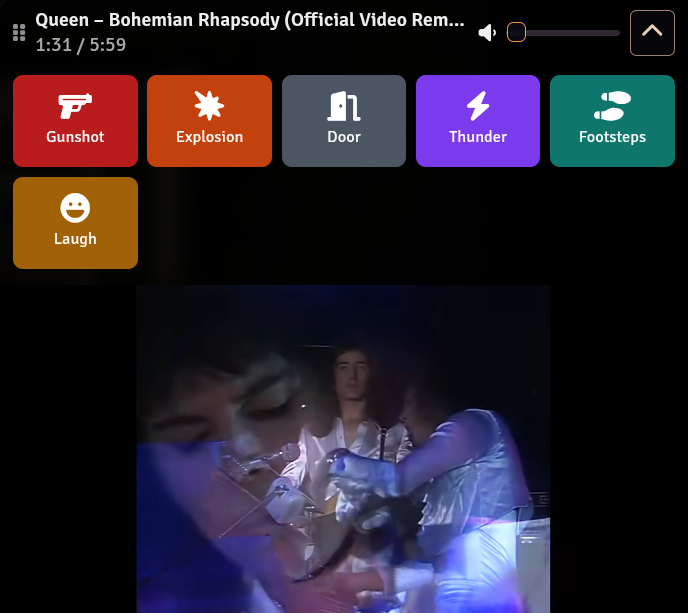
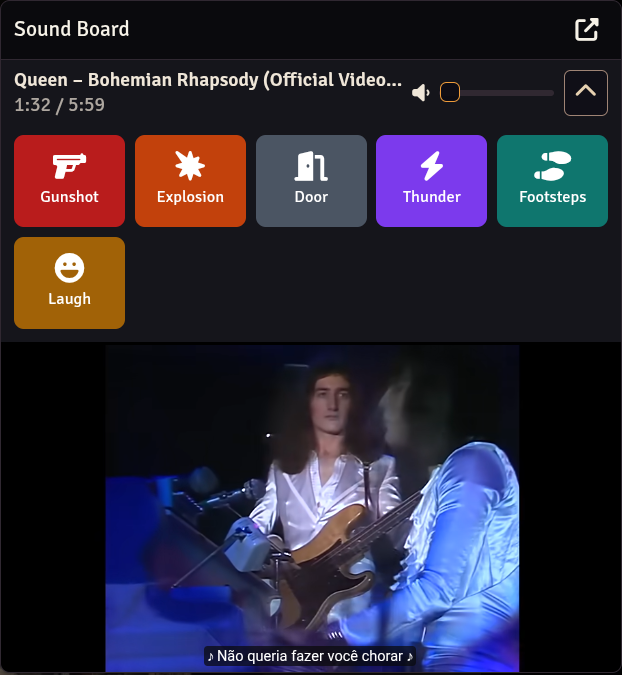
Player is now a Foundry window so PopOut! can pop it out; players are rebuilt in the pop-out window; 0.3.0

diff --git a/scripts/widget.js b/scripts/widget.js
@@ -1,71 +1,87 @@
-// Small always-on widget for everyone: main channel title + mm:ss, general volume, collapsible board buttons.
-import { MOD, getState, pos, duration } from './engine.js';
+// Always-visible player window for everyone: the YouTube player(s), main channel title + mm:ss, general volume, board buttons.
+// A normal Foundry window so PopOut! can move it to its own browser window; it has no close/minimize (YouTube requires the player to stay visible).
+import { MOD, getState, pos, duration, rebind } from './engine.js';
 import { press, canPlay, allButtons } from './effects.js';
+import { setBox, boxWin } from './yt.js';
 
 export const t = (k) => game.i18n.localize(`FSB.${k}`);
 export const esc = (s = '') => String(s).replace(/[&<>"']/g, (c) => ({ '&': '&amp;', '<': '&lt;', '>': '&gt;', '"': '&quot;', "'": '&#39;' }[c]));
 export const fmt = (s) => `${Math.floor(s / 60)}:${String(Math.floor(s % 60)).padStart(2, '0')}`;
 export const btnFace = (b) => (b.image ? `<img src="${esc(b.image)}" alt="">` : `<i class="${esc(b.icon || 'fa-solid fa-music')}"></i>`);
 
-let el; let openManager;
 const mainChannel = () => { const st = getState(); return st.channels.find((c) => c.id === st.main && c.queue.length) ?? st.channels.find((c) => c.queue.length && c.playing) ?? st.channels.find((c) => c.queue.length); };
+const cfg = () => game.settings.get(MOD, 'widget');
 
-export function render() {
-  const ch = mainChannel();
-  const cfg = game.settings.get(MOD, 'widget');
-  const btns = allButtons().filter((b) => canPlay(b));
-  const blocked = !navigator.userActivation?.hasBeenActive && getState().channels.some((c) => c.playing);
-  el.classList.toggle('open', cfg.open);
-  el.querySelector('.ui').innerHTML = `
-    <div class="bar">
-      <i class="fa-solid fa-grip-vertical grip" title="${t('Drag')}"></i>
-      <div class="info"><div class="title">${esc(ch?.queue[ch.index]?.title ?? t('Idle'))}</div><div class="time"></div></div>
-      ${blocked ? `<button data-a="unlock"><i class="fa-solid fa-volume-high"></i> ${t('EnableAudio')}</button>` : ''}
-      <i class="fa-solid fa-volume-low"></i>
-      <input type="range" min="0" max="100" value="${game.settings.get(MOD, 'general')}" data-a="general" title="${t('General')}">
-      ${game.user.isGM ? `<button data-a="manager" title="${t('Manager')}"><i class="fa-solid fa-sliders"></i></button>` : ''}
-      ${btns.length ? `<button data-a="toggle"><i class="fa-solid fa-chevron-${cfg.open ? 'up' : 'down'}"></i></button>` : ''}
-    </div>
-    ${cfg.open && btns.length ? `<div class="panel">${btns.map((b) => `<button class="sb" data-a="fx" data-id="${b.id}" title="${esc(b.label)}" style="--c:${esc(b.color || '#444')}">${btnFace(b)}<span>${esc(b.label)}</span></button>`).join('')}</div>` : ''}`;
-  tick();
+let app; let openManager;
+const { ApplicationV2 } = foundry.applications.api;
+
+class Player extends ApplicationV2 {
+  static DEFAULT_OPTIONS = { id: 'fsb-widget', classes: ['fsb', 'fsb-widget'], window: { title: 'FSB.Title', minimizable: false, resizable: false }, position: { width: 380 } };
+
+  async _renderHTML() {
+    const ch = mainChannel(); const c = cfg();
+    const btns = allButtons().filter((b) => canPlay(b));
+    const w = this.element?.ownerDocument.defaultView ?? window; // the pop-out window has its own autoplay permission
+    const blocked = !w.navigator.userActivation?.hasBeenActive && getState().channels.some((x) => x.playing);
+    return `
+      <div class="bar">
+        <div class="info"><div class="title">${esc(ch?.queue[ch.index]?.title ?? t('Idle'))}</div><div class="time"></div></div>
+        ${blocked ? `<button data-a="unlock"><i class="fa-solid fa-volume-high"></i> ${t('EnableAudio')}</button>` : ''}
+        <i class="fa-solid fa-volume-low"></i>
+        <input type="range" min="0" max="100" value="${game.settings.get(MOD, 'general')}" data-a="general" title="${t('General')}">
+        ${game.user.isGM ? `<button data-a="manager" title="${t('Manager')}"><i class="fa-solid fa-sliders"></i></button>` : ''}
+        ${btns.length ? `<button data-a="toggle"><i class="fa-solid fa-chevron-${c.open ? 'up' : 'down'}"></i></button>` : ''}
+      </div>
+      ${c.open && btns.length ? `<div class="panel">${btns.map((b) => `<button class="sb" data-a="fx" data-id="${b.id}" title="${esc(b.label)}" style="--c:${esc(b.color || '#444')}">${btnFace(b)}<span>${esc(b.label)}</span></button>`).join('')}</div>` : ''}`;
+  }
+
+  // only the .ui part is redrawn: #fsb-yt (the iframes) must survive every render
+  _replaceHTML(html, content) {
+    if (!content.querySelector('.ui')) content.innerHTML = '<div class="ui"></div><div id="fsb-yt"></div>';
+    content.querySelector('.ui').innerHTML = html;
+    setBox(content.querySelector('#fsb-yt'));
+    tick();
+  }
+
+  _onFirstRender() {
+    const el = this.element;
+    el.addEventListener('click', (e) => {
+      const b = e.target.closest('[data-a]'); if (!b) return;
+      const a = b.dataset.a;
+      if (a === 'unlock') import('./engine.js').then((m) => m.reconcile()).then(render);
+      else if (a === 'manager') openManager();
+      else if (a === 'toggle') game.settings.set(MOD, 'widget', { ...cfg(), open: !cfg().open }).then(render);
+      else if (a === 'fx') press(allButtons().find((x) => x.id === b.dataset.id));
+    });
+    el.addEventListener('input', (e) => { if (e.target.dataset.a === 'general') game.settings.set(MOD, 'general', Number(e.target.value)); });
+  }
+
+  _onPosition() { // remember where the player dragged it
+    clearTimeout(this._save);
+    this._save = setTimeout(() => game.settings.set(MOD, 'widget', { ...cfg(), x: this.position.left, y: this.position.top }), 800);
+  }
+
+  async close(options = {}) { return options.force ? super.close(options) : this; } // never hideable
 }
 
+export const render = () => app?.render();
+
 function tick() {
-  const ch = mainChannel(); const e = el?.querySelector('.time');
+  const ch = mainChannel(); const e = app?.element?.querySelector('.time');
   if (!e) return;
   const d = ch ? duration(ch.id) : 0;
   e.textContent = ch ? `${fmt(Math.min(pos(ch), d || Infinity))}${d ? ` / ${fmt(d)}` : ''}${ch.playing ? '' : ' ⏸'}` : '';
 }
 
-export function initWidget(open) {
+export async function initWidget(open) {
   openManager = open;
-  el = document.body.appendChild(Object.assign(document.createElement('div'), { id: 'fsb-widget', className: 'fsb' }));
-  el.innerHTML = '<div class="ui"></div><div id="fsb-yt"></div>'; // #fsb-yt holds the visible YouTube players
-  const cfg = game.settings.get(MOD, 'widget');
-  const place = (x, y) => { el.style.left = `${Math.max(0, Math.min(x, innerWidth - 120))}px`; el.style.top = `${Math.max(0, Math.min(y, innerHeight - 40))}px`; };
-  place(cfg.x ?? innerWidth - 560, cfg.y ?? 8);
-
-  el.addEventListener('click', (e) => {
-    const b = e.target.closest('[data-a]'); if (!b) return;
-    const a = b.dataset.a;
-    if (a === 'unlock') { import('./engine.js').then((m) => m.reconcile()); render(); }
-    else if (a === 'manager') openManager();
-    else if (a === 'toggle') game.settings.set(MOD, 'widget', { ...game.settings.get(MOD, 'widget'), open: !game.settings.get(MOD, 'widget').open }).then(render);
-    else if (a === 'fx') press(allButtons().find((x) => x.id === b.dataset.id));
-  });
-  el.addEventListener('input', (e) => { if (e.target.dataset.a === 'general') game.settings.set(MOD, 'general', Number(e.target.value)); });
-  el.addEventListener('pointerdown', (e) => {
-    if (!e.target.closest('.grip')) return;
-    const dx = e.clientX - el.offsetLeft; const dy = e.clientY - el.offsetTop;
-    const move = (m) => place(m.clientX - dx, m.clientY - dy);
-    const up = () => {
-      removeEventListener('pointermove', move); removeEventListener('pointerup', up);
-      game.settings.set(MOD, 'widget', { ...game.settings.get(MOD, 'widget'), x: el.offsetLeft, y: el.offsetTop });
-    };
-    addEventListener('pointermove', move); addEventListener('pointerup', up);
-  });
+  const c = cfg();
+  app = new Player({ position: { left: c.x ?? Math.max(0, innerWidth - 560), top: c.y ?? 8 } });
+  await app.render({ force: true });
   // first user gesture: drop the "enable audio" button
   document.addEventListener('pointerdown', () => setTimeout(render, 0), { once: true, capture: true });
   setInterval(tick, 1000);
-  render();
+  // PopOut! moved the window (or put it back): rebuild the players in the window that now holds it
+  const again = foundry.utils.debounce(async () => { await rebind(); render(); }, 500);
+  for (const h of ['PopOut:loaded', 'PopOut:popin', 'PopOut:close']) Hooks.on(h, (a) => { if (a?.id === 'fsb-widget') again(); });
 }

diff --git a/scripts/yt.js b/scripts/yt.js
@@ -1,17 +1,25 @@
-// YouTube IFrame API helpers (official embed, hidden offscreen players).
-let api;
-export const ytReady = () => (api ??= new Promise((res) => {
-  if (window.YT?.Player) return res();
-  const prev = window.onYouTubeIframeAPIReady;
-  window.onYouTubeIframeAPIReady = () => { prev?.(); res(); };
-  const s = document.createElement('script');
-  s.src = 'https://www.youtube.com/iframe_api';
-  document.head.append(s);
-}));
+// YouTube IFrame API helpers (official embed; the player is always visible inside the widget window).
+const apis = new WeakMap(); // window -> promise: a pop-out window needs its own copy of the API, loaded in that window
+export const ytReady = (win = window) => {
+  if (win.YT?.Player) return Promise.resolve();
+  if (!apis.has(win)) apis.set(win, new Promise((res) => {
+    const prev = win.onYouTubeIframeAPIReady;
+    win.onYouTubeIframeAPIReady = () => { prev?.(); res(); };
+    const s = win.document.createElement('script');
+    s.src = 'https://www.youtube.com/iframe_api';
+    win.document.head.append(s);
+  }));
+  return apis.get(win);
+};
 
-// Visible players only (YouTube terms forbid hiding the player): they live inside the widget, full widget width (auto) x 200 (the minimum height YouTube allows).
-export const box = () => document.getElementById('fsb-yt');
+// Visible players only (YouTube terms forbid hiding the player): they live inside the widget window, full width (auto) x 200 (the minimum height YouTube allows).
+let boxEl;
+export const setBox = (e) => { boxEl = e; };
+export const box = () => boxEl;
+export const boxWin = () => boxEl?.ownerDocument.defaultView ?? window; // main window, or the PopOut! window
 export const SIZE = { width: '100%', height: 200 };
+// explicit origin: a pop-out window is about:blank, where the API would otherwise send "null" and never get events back
+export const pv = (o = {}) => ({ origin: window.location.origin, ...o });
 
 export const vidOf = (u = '') => /(?:[?&]v=|youtu\.be\/|embed\/|shorts\/)([\w-]{11})/.exec(u)?.[1];
 export const listOf = (u = '') => /[?&]list=([\w-]+)/.exec(u)?.[1];

diff --git a/scripts/engine.js b/scripts/engine.js
@@ -1,6 +1,6 @@
 // Music channels. Authoritative state lives in the world setting `state`: only the GM can write it,
 // and Foundry pushes it to every client (onChange), including late joiners/reloads (read at ready).
-import { ytReady, box, SIZE } from './yt.js';
+import { ytReady, box, boxWin, SIZE, pv } from './yt.js';
 
 export const MOD = 'foundry-sound-board';
 export const getState = () => game.settings.get(MOD, 'state');
@@ -50,8 +50,8 @@ const advance = (id, vid) => {
 function create(id) {
   const el = box().appendChild(document.createElement('div'));
   const p = { vid: null, ready: false, want: null };
-  p.yt = new YT.Player(el, {
-    ...SIZE, playerVars: { playsinline: 1, disablekb: 1 },
+  p.yt = new (boxWin().YT.Player)(el, {
+    ...SIZE, playerVars: pv({ playsinline: 1, disablekb: 1 }),
     events: {
       onReady: () => { p.ready = true; sync(id); },
       onStateChange: (e) => { if (e.data === 0) advance(id, p.vid); onChange(); },
@@ -83,7 +83,8 @@ function sync(id) {
 
 export async function reconcile() {
   const st = getState();
-  await ytReady();
+  if (!box()) return; // the widget window is not rendered yet
+  await ytReady(boxWin());
   const live = new Set(st.channels.filter((c) => c.queue[c.index] && c.playing).map((c) => c.id));
   for (const [id, p] of players) if (!live.has(id)) { p.yt.destroy(); players.delete(id); }
   for (const ch of st.channels) {
@@ -93,6 +94,13 @@ export async function reconcile() {
     sync(ch.id);
   }
   onChange();
+}
+
+// the widget moved to or from a PopOut! window: its iframes were reloaded and lost their link to this script, so rebuild them there
+export async function rebind() {
+  for (const p of players.values()) { try { p.yt.destroy(); } catch { /* iframe already gone */ } }
+  players.clear();
+  await reconcile();
 }
 
 export const applyVolumes = () => { for (const p of players.values()) if (p.ready && p.want) p.yt.setVolume(mix(p.want.volume)); };

diff --git a/styles/sound-board.css b/styles/sound-board.css
@@ -1,13 +1,14 @@
+#fsb-yt { background: #000; }
 #fsb-yt { display: flex; flex-direction: column; gap: 2px; } #fsb-yt:empty { display: none; }
 #fsb-yt iframe { display: block; width: 100%; height: 200px; max-width: 100%; }
-#fsb-widget { position: fixed; z-index: 60; min-width: 360px; max-width: 420px; background: #000c; color: #eee; border-radius: 8px; font-size: 12px; backdrop-filter: blur(4px); }
 #fsb-widget .bar { display: flex; align-items: center; gap: 6px; padding: 4px 8px; }
-#fsb-widget .grip { cursor: grab; opacity: .6; }
 #fsb-widget .info { flex: 1; min-width: 0; }
 #fsb-widget .title { white-space: nowrap; overflow: hidden; text-overflow: ellipsis; font-weight: 600; }
 #fsb-widget .time { opacity: .7; font-variant-numeric: tabular-nums; }
 #fsb-widget input[type=range] { width: 70px; margin: 0; }
 #fsb-widget button { width: auto; line-height: 1.4; padding: 0 6px; }
+#fsb-widget .window-content { padding: 0; font-size: 12px; gap: 0; }
+#fsb-widget [data-action="close"] { display: none; }
 #fsb-widget .panel, .fsb-manager .grid { display: grid; grid-template-columns: repeat(auto-fill, minmax(64px, 1fr)); gap: 6px; padding: 6px 8px 8px; }
 .fsb .sb { display: flex; flex-direction: column; align-items: center; justify-content: center; gap: 2px; height: 56px; width: 100%; background: var(--c, #444); color: #fff; border: 0; border-radius: 6px; padding: 2px; }
 .fsb .sb i { font-size: 18px; } .fsb .sb img { width: 24px; height: 24px; object-fit: contain; }

diff --git a/scripts/effects.js b/scripts/effects.js
@@ -1,6 +1,6 @@
 // One-shot effects: ephemeral "channels" at 100%, scaled only by the general volume, removed when they end.
 import { MOD, mix } from './engine.js';
-import { ytReady, box, vidOf, isYT, SIZE } from './yt.js';
+import { ytReady, box, boxWin, vidOf, isYT, SIZE, pv } from './yt.js';
 
 const live = new Set(); // {btn, stop, setVol}
 const channel = `module.${MOD}`;
@@ -16,11 +16,11 @@ async function start(btn) {
   const done = () => { live.delete(entry); };
   const start = Number(btn.start) || 0; const end = Number(btn.end) || 0;
   if (isYT(btn.src)) {
-    await ytReady();
+    await ytReady(boxWin());
     const el = box().appendChild(document.createElement('div'));
-    const y = new YT.Player(el, {
+    const y = new (boxWin().YT.Player)(el, {
       ...SIZE, videoId: vidOf(btn.src),
-      playerVars: { start, ...(end ? { end } : {}) },
+      playerVars: pv({ start, ...(end ? { end } : {}) }),
       events: {
         onReady: (e) => { entry.setVol(); e.target.playVideo(); },
         onStateChange: (e) => { if (e.data !== 0) return; if (btn.loop) { y.seekTo(start); y.playVideo(); } else entry.stop(); },

diff --git a/scripts/main.js b/scripts/main.js
@@ -16,10 +16,10 @@ Hooks.once('init', () => {
   game.settings.register(MOD, 'widget', { scope: 'client', config: false, type: Object, default: { x: null, y: null, open: false } });
 });
 
-Hooks.once('ready', () => {
+Hooks.once('ready', async () => {
   const open = () => { mgr ??= new Manager(); mgr.render({ force: true }); };
   game.modules.get(MOD).api = { open };
   initEffects();
-  initWidget(open);
+  await initWidget(open);
   startEngine();
 });

diff --git a/README.md b/README.md
@@ -4,7 +4,8 @@ GM-controlled, synced audio for every player: YouTube music channels, effects, s
 
 Install: copy this folder to `Data/modules/foundry-sound-board` and enable it in the world.
 
-- **Widget (everyone):** title, `m:ss / total`, general volume; the chevron shows the board buttons the GM allowed. Drag it by the grip.
+- **Player window (everyone):** the YouTube player, title, `m:ss / total`, general volume; the chevron shows the board buttons the GM allowed. It is a normal Foundry window (drag it by the title bar) that cannot be closed or minimised.
+- **Pop-out:** with the [PopOut!](https://foundryvtt.com/packages/popout) module the player window can be popped into its own browser window (button in its title bar); the players are rebuilt there and stay in sync.
 - **Manager (GM, sliders icon):** channels with queues (play/pause/skip, loop, shuffle, volume, main channel star), saved playlists, boards.
 - **Shuffle:** reorders the queue (current track keeps playing) and reshuffles every round, looping.
 - **Search:** filters tracks across all channels / playlists; every track has an ✕ to remove it. Chevrons fold channels and playlists.
